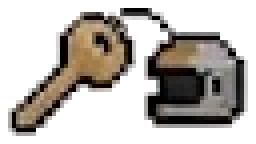
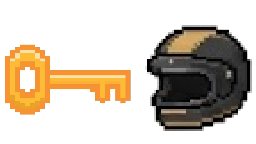
Make the heart bonus and gold key the fixed defaults for every build
The heart replaces the golden-egg bonus pickup and the new gold pixel key
replaces the old brown key (also redrawn into the key+helmet title icon),
so customers no longer need per-customer overrides for them.

diff --git a/docs/workflow.md b/docs/workflow.md
@@ -50,9 +50,9 @@ Mẫu tham khảo đầy đủ: `customers/thaobe/` (khách đầu tiên làm th
 
   | Thư mục của khách | Thay cho | Ví dụ ở bản Thảo Bé |
   | --- | --- | --- |
-  | `assets/characters/` | nhân vật, xe, icon quà, chìa khoá, ảnh kết | `Man-Walk-Side-01..04`, `Man-Bike-Side-01`, `Couple-Bike-Side-01`, `Item-Key-01` |
+  | `assets/characters/` | nhân vật, xe, icon quà, ảnh minh hoạ | `Man-Walk-Side-01..04`, `Man-Bike-Side-01`, `Couple-Bike-Side-01` |
   | `assets/elements/` | vật phẩm, khối, UI trong game | — |
-  | `assets/props/` | vật trang trí / điểm thưởng | `Egg-Gold.png` = hình trái tim thay trứng vàng |
+  | `assets/props/` | vật trang trí / điểm thưởng | — |
   | `assets/scenes/<id>/` | nền parallax (`L1.png` xa → `L3.png` gần) + khai báo `SCENE_LAYERS` | — (nền mới đã thành mặc định) |
 
   - Ảnh gốc/nháp để trong thư mục con `_source/` — script build bỏ qua, không chép vào bản giao
